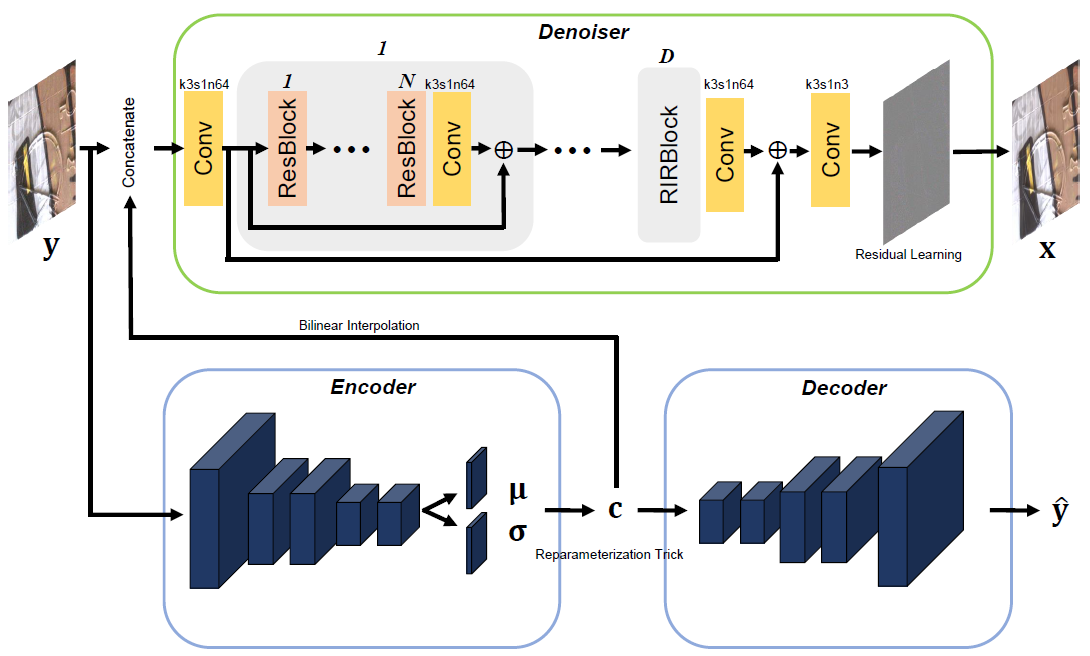
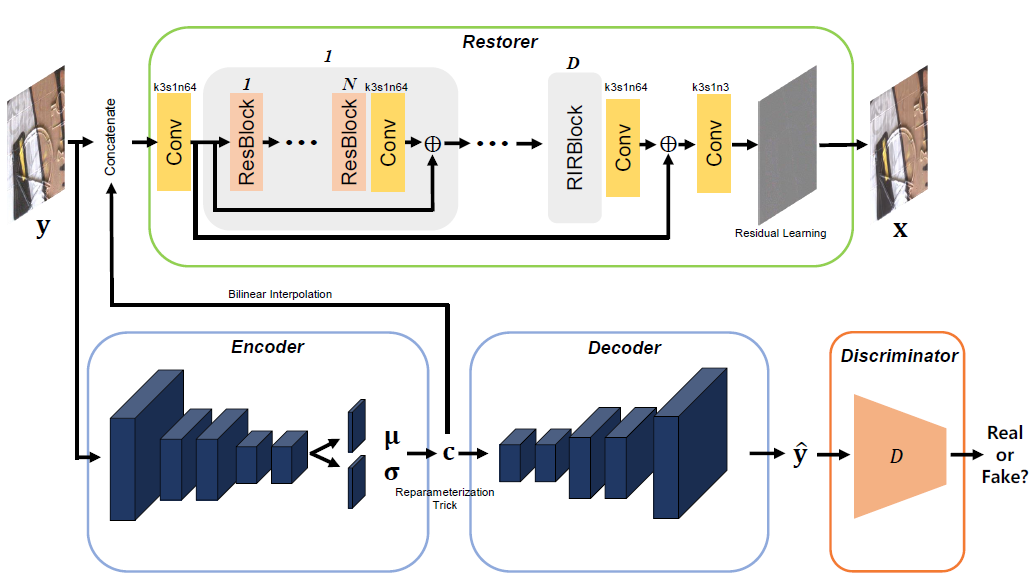
Updated for VDIR

diff --git a/README.md b/README.md
@@ -1,9 +1,15 @@
 # VDIR
-# Variational Deep Image Restoration & <p> [Variational Deep Image Denoising](https://arxiv.org/pdf/2104.00965.pdf)
+[Variational Deep Image Restoration](https://arxiv.org/pdf/2207.01074.pdf)
+# TIP 2022
+[Variational Deep Image Denoising](https://arxiv.org/pdf/2104.00965.pdf)
 
 Jae Woong Soh and Nam Ik Cho
 
 VDID [[Arxiv](https://arxiv.org/abs/2104.00965)]
+VDIR [[Paper](https://ieeexplore.ieee.org/document/9804226)] [[Arxiv](https://arxiv.org/abs/2207.01074)]
+
+## Supplementary Material
+[[Supplemental](https://drive.google.com/file/d/1p12vhVvLLvLBUmen3SdjYiJyN_X71c4t/view?usp=sharing)]
 
 ## Environments
 - Ubuntu 18.04
@@ -33,6 +39,15 @@ The overall architecture of proposed VDID, where <i><b>k</b></i>, <b><i>s</i></b
 **Results on Real-Noise (SIDD/DND)**
 
 <p align="center"><img src="figure/result_REAL.png" width="900"></p>
+
+**Results on Blind Super-Resolution**
+
+<p align="center"><img src="figure/result_SR.png" width="900"></p>
+
+**Results on JPEG compression artifacts reduction**
+
+<p align="center"><img src="figure/result_JPEG.png" width="900"></p>
+
 
 ## Additional Visualized Results
 
@@ -76,7 +91,7 @@ python generate_AWGN.py --labelpath DIV2K_train_HR/*.png
 python generate_REAL.py --labelpath DIV2K_train_HR/*.png --datapath DIV2K_train_REAL_NOISE/*.png --labelpath2 SIDD/GT/*.PNG --datapath2 SIDD/NOISY/*.PNG
 ```
 
-### Train VDID
+### Train VDIR
 
 **AWGN Denoising**
 
@@ -124,5 +139,13 @@ python main.py --gpu [GPU_number] --model [Type of model] --inputpath [dataset p
   author={Soh, Jae Woong and Cho, Nam Ik},
   journal={arXiv preprint arXiv:2104.00965},
   year={2021}
+}
+
+@article{soh2022variational,
+  title={Variational Deep Image Restoration},
+  author={Soh, Jae Woong and Cho, Nam Ik},
+  journal={IEEE Transactions on Image Processing},
+  year={2022},
+  publisher={IEEE}
 }
 ```
